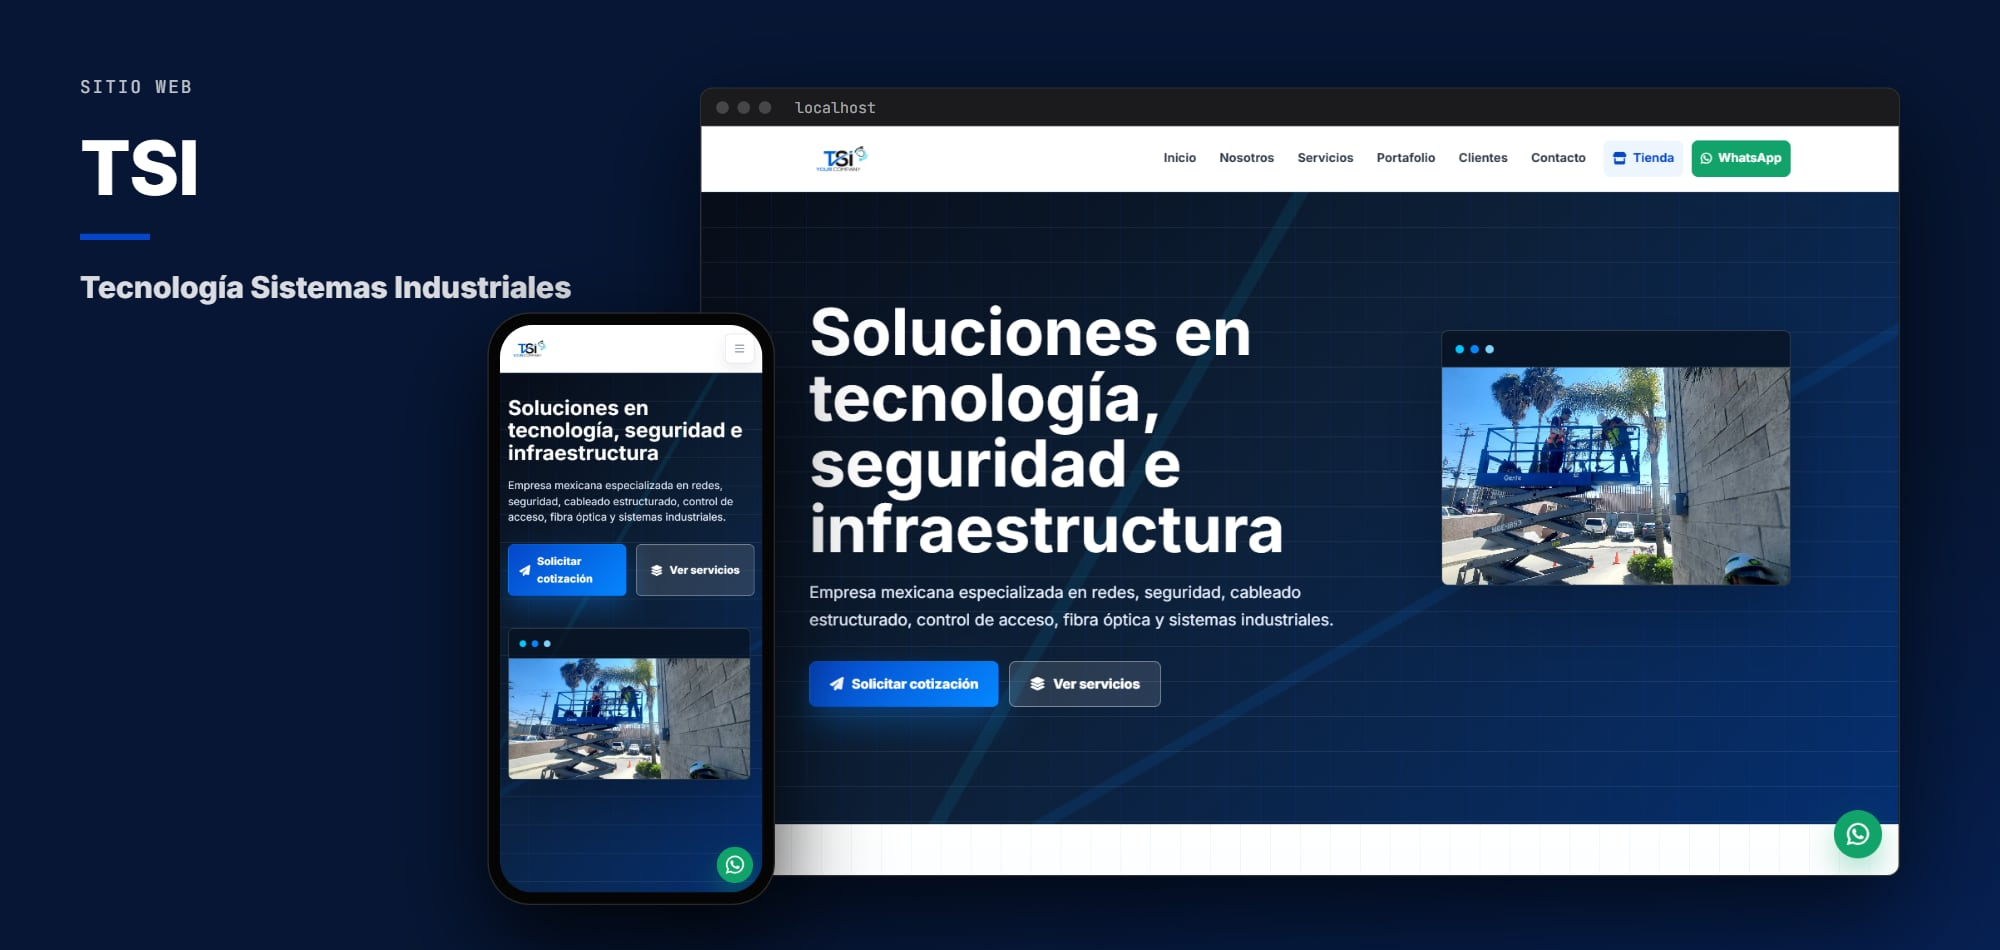
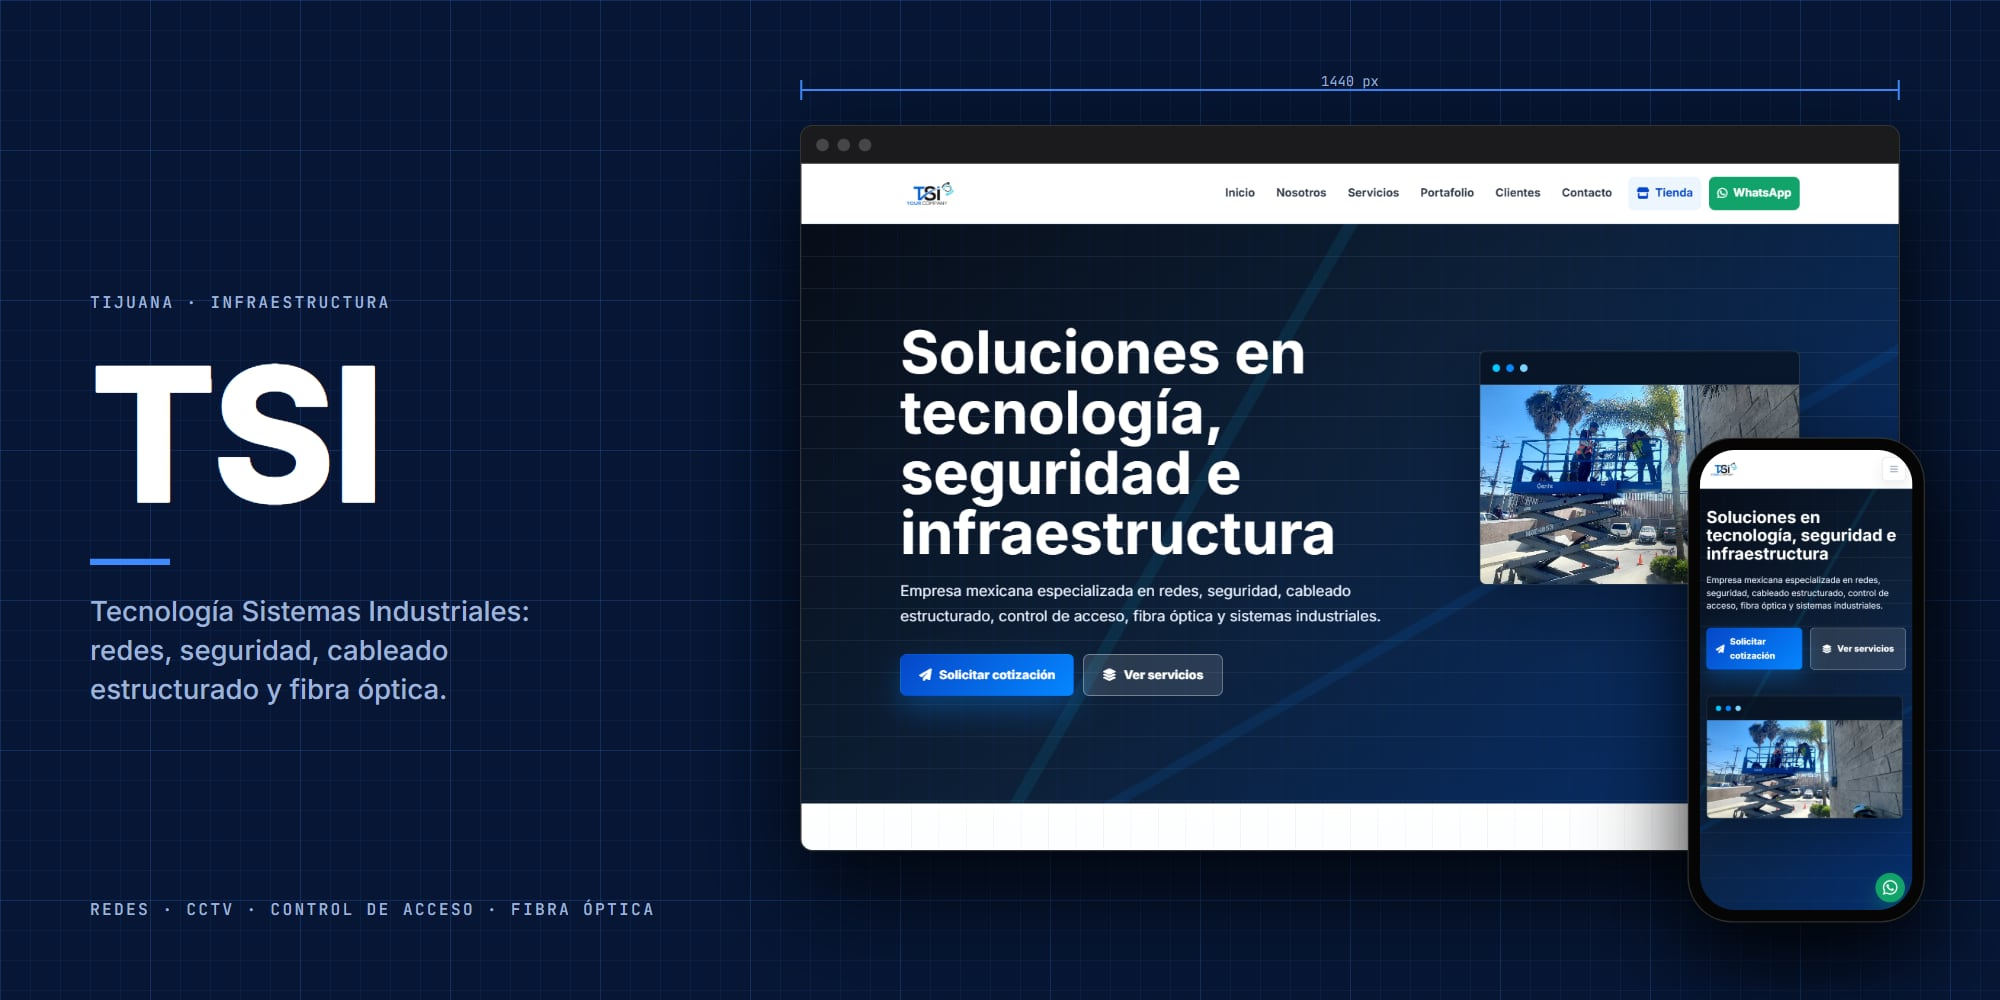
README: portadas por marca, capturas en celular y sin enlaces

diff --git a/README.md b/README.md
@@ -1,5 +1,5 @@
 <p align="center">
-  <img alt="TSI — Tecnología Sistemas Industriales. Vista del sitio en computadora y celular" src="docs/img/portada.jpg" width="100%">
+  <img alt="TSI: Tecnología Sistemas Industriales" src="docs/img/portada.jpg" width="100%">
 </p>
 
 <h1 align="center">TSI</h1>
@@ -15,34 +15,38 @@
 
 ## Sobre el proyecto
 
-Sitio de **TSI — Tecnología Sistemas Industriales**, empresa de Tijuana: seguridad, redes, cableado estructurado, fibra óptica e infraestructura industrial.
+Sitio de **TSI — Tecnología Sistemas Industriales**, empresa de Tijuana especializada en seguridad, redes, cableado estructurado, control de acceso, fibra óptica e infraestructura industrial.
 
-Es un sitio estático: HTML, CSS y JavaScript sin frameworks ni proceso de build.
+Es un sitio estático, hecho con HTML, CSS y JavaScript, sin frameworks ni proceso de build.
 
 ## Secciones
 
 | Sección | Contenido |
 | --- | --- |
 | **Nosotros** | Quiénes somos |
-| **Servicios** | Infraestructura, redes y seguridad |
+| **Servicios** | Cableado estructurado, control de acceso, redes y seguridad |
 | **Portafolio** | Proyectos realizados |
 | **Clientes** | Empresas atendidas |
 | **Contacto** | Formulario y WhatsApp |
 
-## Capturas
+## En computadora
 
 <p align="center">
-  <img alt="TSI en computadora" src="docs/img/escritorio.jpg" width="72%">
-  &nbsp;
-  <img alt="TSI en celular" src="docs/img/movil.jpg" width="22%">
+  <img alt="TSI en computadora" src="docs/img/escritorio.jpg" width="100%">
+</p>
+
+## En celular
+
+<p align="center">
+  <img alt="TSI en celular: tres pantallas" src="docs/img/celular.jpg" width="100%">
 </p>
 
 ## Tecnologías
 
-- HTML5, CSS3 y JavaScript, sin frameworks ni proceso de build.
-- Íconos de [Font Awesome](https://fontawesome.com/) (desde CDN).
-- Tipografía de Google Fonts (Inter).
+- HTML5, CSS3 y JavaScript.
 - Diseño adaptable a celular, tableta y computadora.
+- Íconos de Font Awesome.
+- Tipografía de Google Fonts: Inter.
 
 ## Estructura
 
@@ -60,30 +64,20 @@ TSISeguridad/
 ├── Clientes3.png
 ├── Clientes4.png
 ├── Clientes5.png
-├── docs/                       # Imágenes de este README
+├── docs/                   # Imágenes de este README
 ├── favicon.ico
 ├── FirmaQuienesSomos.jpg
-├── index.html                  # Página principal
+├── index.html              # Página principal
 ├── Logo.png
 ├── Portafolio1.jpg
 ├── Portafolio2.jpg
 ├── Portafolio3.jpg
 ├── Portafolio4.jpeg
 ├── Portafolio5.jpg
-├── script.js                   # Interacciones (menú, animaciones)
-└── styles.css                  # Estilos
+├── script.js               # Interacciones y animaciones
+└── styles.css              # Estilos
 ```
-
-## Correr en local
-
-No necesita instalar nada. Abre `index.html` en el navegador, o sírvelo desde la carpeta del repo:
-
-```bash
-python -m http.server 8000
-```
-
-y entra a <http://localhost:8000>.
 
 ## Créditos
 
-Desarrollado por [@Salereee](https://github.com/Salereee). Logotipos, fotografías y textos del negocio pertenecen a TSI.
+Desarrollado por Salereee. Logotipos, fotografías y textos del negocio pertenecen a TSI.
